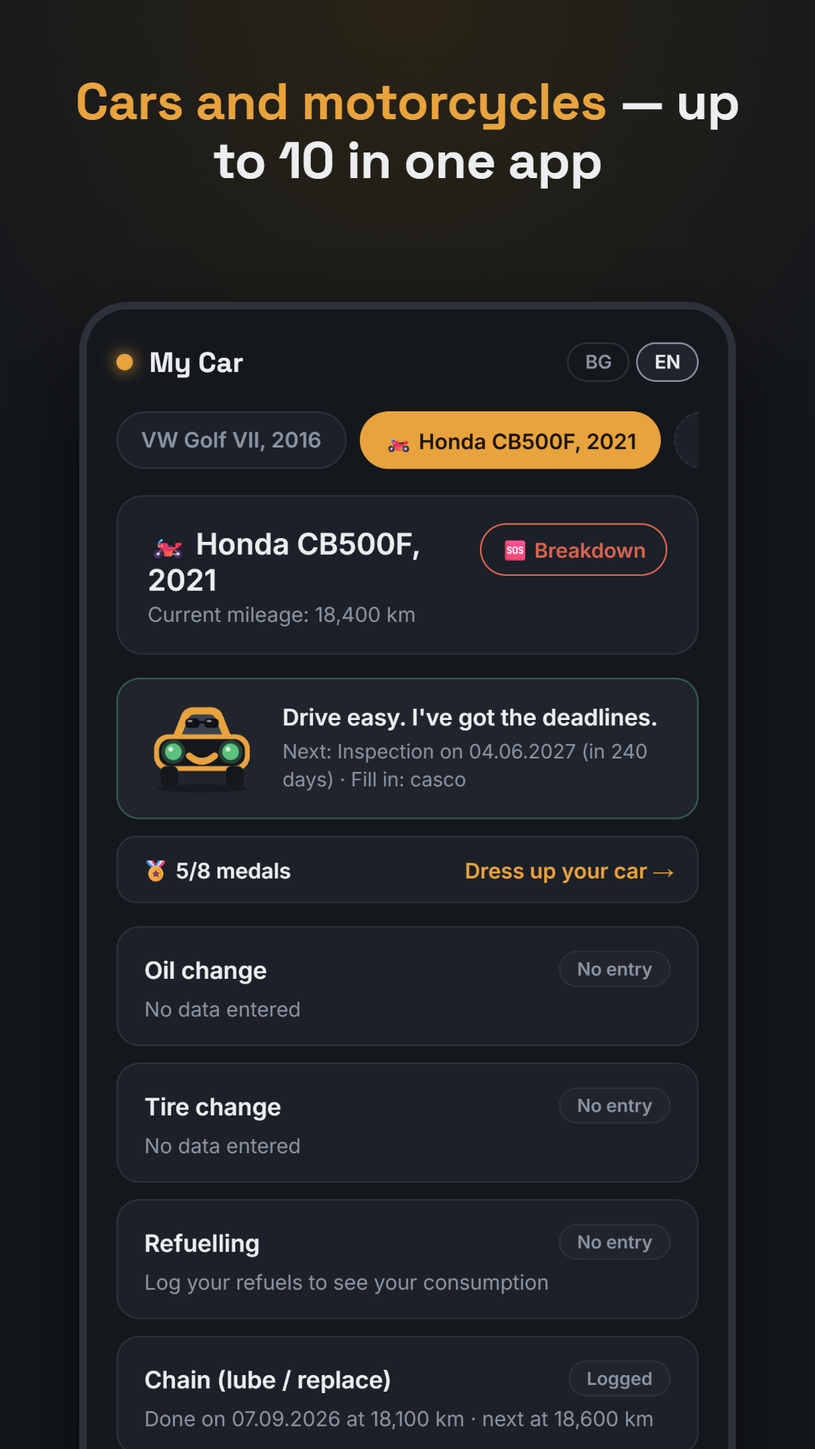
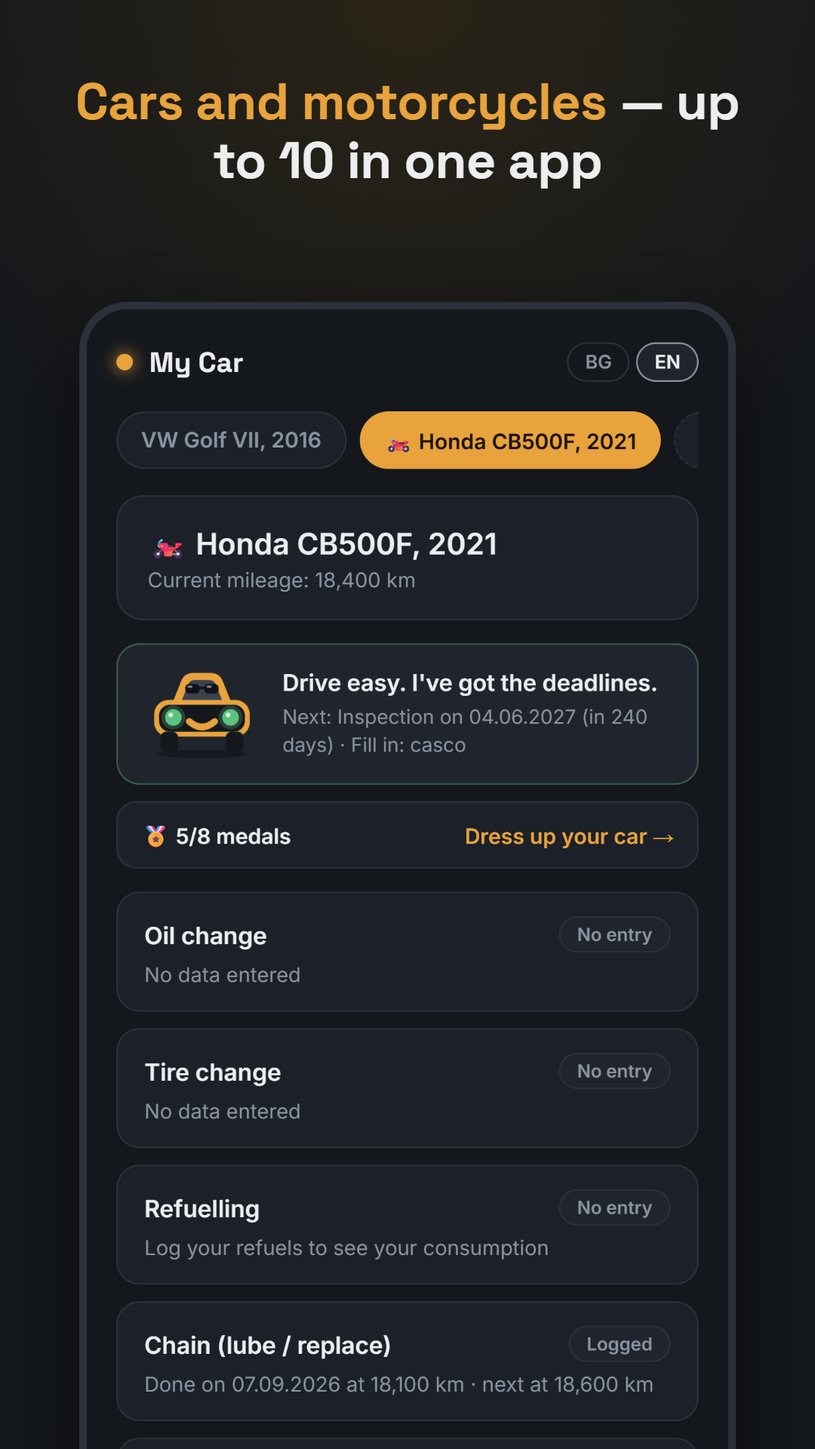
Hide the Breakdown button until there is a road-assistance partner; drop location permissions

diff --git a/terms.html b/terms.html
@@ -41,7 +41,6 @@ a{color:var(--amber);}
 <li>Пази сроковете на гражданска отговорност, винетка, технически преглед, каско, смяна на масло и друго обслужване и ти показва кога наближават.</li>
 <li>Води дневник на зарежданията и разходите.</li>
 <li>Показва оферти и бутони към партньори (застрахователни брокери, магазини, сервизи).</li>
-<li>Бутон „Авария“ с телефони за пътна помощ и спешни случаи и показване на местоположението ти.</li>
 </ul>
 <p>Данните, които въвеждаш, се пазят на твоето устройство. Подробности — в <a href="privacy.html">Политиката за поверителност</a>.</p>
 
@@ -52,7 +51,6 @@ a{color:var(--amber);}
 <p>Ние <b>не сме застраховател, застрахователен брокер или агент</b> и не продаваме застраховки, винетки, стоки или услуги. Бутоните към партньори отварят техния сайт; договорът се сключва директно между теб и партньора, по неговите условия и цени. Можем да получим възнаграждение от партньора, когато купиш чрез нашия линк — това не увеличава цената за теб. Не отговаряме за продуктите, услугите и сайтовете на партньорите.</p>
 
 <h2>5. Спешни случаи</h2>
-<p>Бутонът „Авария“ само улеснява обаждането и показва местоположението ти. Той не изпраща сигнал сам и не замества обаждането на 112. Точността на местоположението зависи от телефона ти.</p>
 
 <h2>6. Безплатна версия, пробен период и премиум</h2>
 <ul>
@@ -99,7 +97,6 @@ a{color:var(--amber);}
 <li>Keeps the expiry dates of third-party liability insurance, vignette, roadworthiness test, casco, oil change and other servicing, and shows you when they are coming up.</li>
 <li>Keeps a log of refuels and costs.</li>
 <li>Shows offers and buttons to partners (insurance brokers, shops, garages).</li>
-<li>A “Breakdown” button with road-assistance and emergency numbers and a way to show your location.</li>
 </ul>
 <p>The data you enter is stored on your device. Details are in the <a href="privacy.html">Privacy Policy</a>.</p>
 
@@ -110,7 +107,6 @@ a{color:var(--amber);}
 <p>We are <b>not an insurer, insurance broker or agent</b> and do not sell insurance, vignettes, goods or services. Partner buttons open the partner’s website; any contract is made directly between you and the partner, on its terms and prices. We may receive a fee from the partner when you buy through our link — this does not increase your price. We are not responsible for partners’ products, services or websites.</p>
 
 <h2>5. Emergencies</h2>
-<p>The “Breakdown” button only makes calling easier and shows your location. It does not send an alert by itself and does not replace calling 112. Location accuracy depends on your phone.</p>
 
 <h2>6. Free version, trial and premium</h2>
 <ul>

diff --git a/privacy.html b/privacy.html
@@ -51,7 +51,7 @@ a{color:var(--amber);}
 <p>Както при всеки сайт, доставчиците на хостинга (GitHub Pages и Supabase) могат да записват технически данни като IP адрес и вид на браузъра в служебни логове за сигурност, за кратък срок.</p>
 
 <h2>4. Местоположение</h2>
-<p>Бутонът „Авария“ може да поиска местоположението ти, <b>само ако го натиснеш</b> и разрешиш достъпа. Координатите се показват само на твоя екран, за да ги кажеш или изпратиш на пътната помощ. Ние не ги получаваме и не ги пазим. Ако избереш „Прати с SMS“ или „Карта“, те се предават на приложението, което сам си избрал.</p>
+<p>Приложението не иска и не ползва местоположението ти.</p>
 
 <h2>5. Партньори и външни сайтове</h2>
 <p>Бутоните към застрахователни брокери, магазини и сервизи отварят техния сайт. „Моят автомобил“ не продава застраховки или стоки — само те препраща. Каквото въведеш на сайта на партньора, се обработва от него по неговата политика за поверителност. Плащането на данъци (бутоните към ePay.bg и pay.egov.bg, ако са включени) също става на техните сайтове.</p>
@@ -100,7 +100,7 @@ a{color:var(--amber);}
 <p>As with any website, our hosting providers (GitHub Pages and Supabase) may record technical data such as IP address and browser type in security logs for a short time.</p>
 
 <h2>4. Location</h2>
-<p>The “Breakdown” button may ask for your location <b>only when you tap it</b> and allow access. The coordinates are shown only on your screen so you can tell or send them to road assistance. We do not receive or store them. If you choose “Send by SMS” or “Map”, they are passed to the app you chose.</p>
+<p>The app does not ask for or use your location.</p>
 
 <h2>5. Partners and external websites</h2>
 <p>Buttons to insurance brokers, shops and garages open their websites. “My Car” does not sell insurance or goods — it only refers you. Anything you enter on a partner’s website is processed by that partner under its own privacy policy. Tax payments (buttons to ePay.bg and pay.egov.bg, if enabled) also happen on their websites.</p>

diff --git a/scripts/store-shots.js b/scripts/store-shots.js
@@ -53,7 +53,7 @@ const T = {
       'Всички срокове на колата — на едно място',
       'Напомня 7 дни и 1 ден преди изтичане',
       'Разход на гориво и сметка за месеца',
-      'Авария? Помощ с едно натискане',
+      'Винетката — проверка по номера на колата',
       'Колата-талисман: медали и облекла',
       'Коли и мотори — до 10 в едно приложение'
     ],
@@ -67,7 +67,7 @@ const T = {
       'All your car’s deadlines in one place',
       'Reminders 7 days and 1 day before expiry',
       'Fuel consumption and monthly spend',
-      'Breakdown? Help in one tap',
+      'Vignette — checked by your plate number',
       'Mascot car: medals and outfits',
       'Cars and motorcycles — up to 10 in one app'
     ],
@@ -143,7 +143,8 @@ const accent = s => s.replace(/^([^—:?]+)([—:?])/, '<b>$1</b>$2');
       { civilDays: 120 },
       { civilDays: 7, action: async p => { await p.addStyleTag({ content: '.item[data-id=oil],.item[data-id=tires],.item[data-id=fuel],#medalBar{display:none!important}' }); }, notif: true },
       { civilDays: 120, action: async p => { await p.click('.item[data-id="fuel"]'); } },
-      { civilDays: 120, action: async p => { await p.click('#sosBtn'); } },
+      // Бутонът „Авария“ е скрит (07.10.2026) — на негово място е проверката на винетката по номер
+      { civilDays: 120, action: async p => { await p.click('.item[data-id="vignette"]'); await p.type('#plateInp', 'CA1234AB'); } },
       { civilDays: 120, action: async p => { await p.click('#medalBar'); } },
       { civilDays: 120, active: 'car2' }
     ];

diff --git a/index.html b/index.html
@@ -269,8 +269,10 @@ const VEHICLE_TYPES = {car:{label:tr('Кола','Car'), icon:'🚗'}, moto:{labe
 function vehicleType(car){ return car && car.type === 'moto' ? 'moto' : 'car'; }
 // Данък МПС е готов, но изключен по решение на Петьо (03.10.2026). За да се появи картата и медалът: TAX_ENABLED = true.
 const TAX_ENABLED = false;
-// Бутонът „Авария“ се скрива с SOS_ENABLED = false (пробвано на 04.10.2026).
-const SOS_ENABLED = true;
+// Бутонът „Авария“ е скрит по решение на Петьо (07.10.2026) — връща се само ако намерим партньор за пътна помощ.
+// За да се появи пак: SOS_ENABLED = true + разрешенията за местоположение в AndroidManifest.xml + текстовете
+// в privacy.html / terms.html / store/google-play (има ги в git историята преди тази дата).
+const SOS_ENABLED = false;
 function defsFor(car){ const t = vehicleType(car); return defs.filter(d=>(!d.only || d.only===t) && (d.id !== 'tax' || TAX_ENABLED)); }
 // Сезонна бележка за мотора: пролетта — проверка преди сезона, зимата — акумулаторът
 function motoSeasonTip(){

diff --git a/CLAUDE.md b/CLAUDE.md
@@ -50,7 +50,7 @@
 - **Езици BG / EN** (29.09.2026): превключвател горе вдясно (`renderLangSwitch`), изборът е в `car-tracker-lang-v1`, по подразбиране BG. Всеки видим текст е `tr('български', 'English')`; списъците (`MASCOT_LINES`, `TAP_LINES`, `SHORT_NAMES`) имат отделен EN вариант. Смяната на езика презарежда страницата. **Нов текст винаги с `tr()`.** RO/IT — само при влизане в тези пазари (различни документи).
 - **Медали и облекла** (30.09.2026, смесен модел — решение на Петьо): 8 медала (`MEDALS`), пазят се в `car-tracker-medals-v1`; подновяванията — в `car-tracker-renewals-v1` (записват се само при потвърдено плащане: `paidYesBtn` → 'confirm', `applyRenewal` → 'partner'; ръчно въведена дата НЕ дава медал). Облекла (`SKIN_ACCESSORIES`) и цветове (`SKIN_COLORS`): с `medal` се отключват с медал, с `premium` — с премиум/пробен период. `effectiveSkin()` връща към основното, ако нещо вече е заключено. Аксесоарите са SVG в `ACCESSORY_SVG` (viewBox на колата). Лентата „🏅 N/8 медала · Облечи колата →“ е под лентата със статуса.
 - **Форми (скинове)** (07.10.2026): `SKIN_SHAPES` (без флаг = безплатна, `premium`, `paid`), рисунките са в `shapeParts(id, body)` — сменя се само кабината и детайлите, лицето е едно; `accDy` мести шапките според покрива. `carSvgInner` рисува колата (и малките картинки — `shapeThumb`). Купените се пазят в `car-tracker-owned-skins-v1` (`{coupe:дата, pack:дата}`), `skinUnlocked` ги проверява. Магазинът е `openSkinShop`: еднократни продукти (non-consumable) в Google Play/App Store с идентификатори **`skin_<id>`** и **`skin_pack`**, през RevenueCat (`getProducts` тип `NON_SUBSCRIPTION` → `purchaseStoreProduct`); `applyOwnedSkins` чете `allPurchasedProductIdentifiers` при всяко `applyCustomerInfo` (и при „Възстанови покупките“). Без ключ в `RC_KEYS` и в уеб версията бутонът казва „скоро“ и **не отключва нищо**. Покупката през RevenueCat още не е тествана на живо (няма акаунти). Нова форма = ред в `SKIN_SHAPES` + рисунка в `shapeParts` + продукт в магазина.
-- **Бутон „Авария“** (30.09.2026): в картата на колата. Само свързваме: обаждане на 146 (пътна помощ СБА), местоположение (карта / SMS / копирай), 112 при пострадали. Не сме пътна помощ — текстът го казва. СБА още не е партньор (имейл пратен 30.09).
+- **Бутон „Авария“** — **СКРИТ** с `SOS_ENABLED = false` (решение на Петьо 07.10.2026: връща се само ако намерим партньор за пътна помощ); махнати са и разрешенията за местоположение в `AndroidManifest.xml` и текстовете за него в privacy/terms/Google Play. Кодът е вътре (30.09.2026): в картата на колата. Само свързваме: обаждане на 146 (пътна помощ СБА), местоположение (карта / SMS / копирай), 112 при пострадали. Не сме пътна помощ — текстът го казва. СБА още не е партньор (имейл пратен 30.09).
 - **Магазини за части (афилиейт, 30.09.2026):** `PARTS_URLS` в `index.html` (oil, tires, chain, charger) — линковете с нашия код се попълват след регистрация в AutoTim / Интимпекс / eMAG (Profitshare); докато са `null`, бутонът показва „Скоро“. `partsOffersFor` решава кога: масло — винаги, гуми — само март–април и октомври–ноември, верига — при мотор, зарядно — мотор през зимата. Бутоните са **за всички** (решение на Петьо 30.09.2026 — ще има много премиум потребители от промо кодове): безплатните виждат „🛒 …“, премиум — златист „⭐ Премиум оферта: …“ и отстъпка с код, ако има (`PARTS_PREMIUM_DISCOUNTS`) — като привилегия, не реклама (`partsHtml`). Вътре в картата (`openSheet`) има и тих линк „🛒 … — партньорски магазин“. Под бутоните: „Партньорска връзка. PARKBOOK може да получи комисиона.“ (задължително).
 - **Данък МПС** (30.09.2026, премиум, коли и мотори) — **ИЗКЛЮЧЕН** с `TAX_ENABLED = false` в `index.html` (решение на Петьо 03.10.2026: „засега не го добавяме“); кодът е вътре и се включва с `true`: mode `tax`, поле `status` ('' / 'first' / 'full') + `year` (+ `paidAt` при 'full'). Сроковете са по закон (ЗМДТ чл. 60): целият до 30.04 с 5% отстъпка, или вноски до 30.06 и 31.10 — `taxState`. **Докато човекът не е отбелязал нищо за годината, картата никога не е червена** — само напомня 15 дни преди срок. От нова година започва отначало. Бутон „Плати данъка →“ (на картата и в лентата) → `openTaxPay`: ePay.bg (страницата за данъци), pay.egov.bg, EasyPay на каса. ЕГН се въвежда при тях, никога при нас. Медал 🧾 „Данъци навреме“ — целият данък до 30.04.
 - **Партньорска система** (03.10.2026): партньорите не са в кода, а в базата — `backend/partners.sql`: `partners` (кратко име, име, SHA-256 на ключа), `partner_links` (партньор + продукт → техният линк, дял в € / % / € на заявка, `auto_return`, само един активен на продукт), `partner_clicks` (всяко препращане, по `cid`), `partner_reports` (ръчен месечен отчет); `renew_postbacks` има `kind` (lead/sale), `amount_eur`, `commission_eur` (делът към момента). Продукти: civil, vignette, casco, oil, tires, chain, charger, inspection, glass. Приложението взима активните партньори с `get_renew_partners()` (`loadPartners` → `SERVER_PARTNERS`, пази се в `car-tracker-partners-v1`) и отваря сайта им през Edge Function `go` (`goUrl`: брои натискането, добавя `cid` към адреса им, 302). Партньорът съобщава през `partner-postback` (ключ → `partners.key_hash`; `type=lead|sale`, `amount`; при civil/vignette/casco и датите). Страницата с паролата (`promo-generator.html`, действия `partners` / `partner_save` / `partner_key` / `report_add` в `admin-generate-code`) добавя партньор, прави ключ + готова инструкция за него и показва отчета по месеци (`partner_report()`): пратени → заявки → продажби → наш дял. `postback_partners` вече не се ползва.

diff --git a/store/google-play/listing.md b/store/google-play/listing.md
@@ -38,8 +38,8 @@
 ⛽ РАЗХОД НА ГОРИВО
 Записвай зарежданията и виж средния си разход (л/100 км) и колко си дал за гориво този месец.
 
-🆘 БУТОН „АВАРИЯ“
-Пътна помощ с едно натискане и точното ти местоположение — за да го кажеш или изпратиш по SMS. При пострадали — 112.
+🔎 ВИНЕТКАТА СЕ ПРОВЕРЯВА САМА
+Въвеждаш регистрационния номер и приложението взима датите на винетката от официалната система на БГ ТОЛ. После проверява само, веднъж на ден.
 
 🏍 КОЛИ И МОТОРИ
 До 10 превозни средства в едно приложение — за цялото семейство или малка фирма.
@@ -51,7 +51,7 @@
 Всичко, което въвеждаш, стои само на твоя телефон. Нямаш акаунт и не събираме лични данни.
 
 💳 БЕЗПЛАТНО И ПРЕМИУМ
-Маслото, гумите, зарежданията и бутонът „Авария“ са безплатни завинаги. Документите (гражданска, винетка, преглед, каско), напомнянията и повече коли са в Премиум — първият месец е безплатен, после 0,99 €/месец или 9,99 €/година. Абонаментът се управлява и спира по всяко време от Google Play. Допълнителните форми на колата се купуват еднократно (по 1,19 € или всички за 5,99 €) и остават твои завинаги.
+Маслото, гумите и зарежданията са безплатни завинаги. Документите (гражданска, винетка, преглед, каско), напомнянията и повече коли са в Премиум — първият месец е безплатен, после 0,99 €/месец или 9,99 €/година. Абонаментът се управлява и спира по всяко време от Google Play. Допълнителните форми на колата се купуват еднократно (по 1,19 € или всички за 5,99 €) и остават твои завинаги.
 
 Приложението е на български и английски.
 
@@ -94,8 +94,8 @@ A phone notification 7 days and 1 day before expiry — even offline. The mascot
 ⛽ FUEL CONSUMPTION
 Log your refuels and see your average consumption (L/100 km) and how much you spent on fuel this month.
 
-🆘 BREAKDOWN BUTTON
-Road assistance in one tap, plus your exact location to tell them or send by SMS. Anyone injured — 112.
+🔎 THE VIGNETTE CHECKS ITSELF
+Enter the registration number and the app takes the vignette dates from the official BG Toll system. Then it re-checks on its own once a day.
 
 🏍 CARS AND MOTORCYCLES
 Up to 10 vehicles in one app — for the whole family or a small business.
@@ -107,7 +107,7 @@ The smiling car is happy when everything is in order and grumbles when a deadlin
 Everything you enter stays on your phone only. There is no account and we do not collect personal data.
 
 💳 FREE AND PREMIUM
-Oil, tyres, refuels and the Breakdown button are free forever. Documents (insurance, vignette, inspection, casco), reminders and more vehicles are Premium — the first month is free, then €0.99/month or €9.99/year. Manage or cancel any time in Google Play. Extra car shapes are one-time purchases (€1.19 each or all for €5.99) and stay yours forever.
+Oil, tyres and refuels are free forever. Documents (insurance, vignette, inspection, casco), reminders and more vehicles are Premium — the first month is free, then €0.99/month or €9.99/year. Manage or cancel any time in Google Play. Extra car shapes are one-time purchases (€1.19 each or all for €5.99) and stay yours forever.
 
 Available in Bulgarian and English.
 

diff --git a/store/google-play/forms.md b/store/google-play/forms.md
@@ -64,7 +64,7 @@ No account or login. Premium features (documents, reminders) can be unlocked wit
 - Purposes: **App functionality** (проверка дали абонаментът е активен)
 
 ### Какво НЕ декларираме (и защо)
-- **Location** — местоположението при „Авария“ се показва само на екрана; не се праща към нас. По правилата на Google данни, които остават само на устройството, не са „събрани“.
+- **Location** — приложението не иска местоположение (бутонът „Авария“ е скрит от 07.10.2026 и разрешенията са махнати).
 - **Колите, датите, километрите, разходите** — пазят се само на телефона; не стигат до нас.
 - **Регистрационният номер** (проверка на винетката, от 07.10.2026) — пази се само на телефона и отива направо от него към официалната проверка на БГ ТОЛ, само ако човекът сам го въведе; до нас не стига. ⚠ Преди да подадеш формуляра, провери дали Google не го брои за „събрани“ данни (предаване към трета страна) — ако има съмнение, питай юриста.
 - **Име, имейл, телефон, ЕГН** — не ги искаме.
@@ -78,7 +78,8 @@ No account or login. Premium features (documents, reminders) can be unlocked wit
 | INTERNET, ACCESS_NETWORK_STATE | промо кодове, партньори, абонамент |
 | POST_NOTIFICATIONS | напомнянията 7 дни и 1 ден преди изтичане |
 | RECEIVE_BOOT_COMPLETED, WAKE_LOCK | напомнянията да останат след рестарт на телефона |
-| ACCESS_COARSE_LOCATION, ACCESS_FINE_LOCATION | само бутонът „Авария“, само докато приложението е отворено |
+
+
 | com.android.vending.BILLING | абонаментът през Google Play |
 
 Точните аларми (SCHEDULE_EXACT_ALARM) са **махнати** нарочно — не са ни нужни и Google ги проверява строго.

diff --git a/store/google-play/README.md b/store/google-play/README.md
@@ -13,4 +13,4 @@
 
 **Снимките** се правят автоматично от приложението с примерни данни (Golf + Honda). Ако променим приложението — Claude ги прави наново.
 
-**Ред на снимките:** 1 — всички срокове · 2 — напомняне · 3 — гориво · 4 — авария · 5 — медали и облекла · 6 — коли и мотори.
+**Ред на снимките:** 1 — всички срокове · 2 — напомняне · 3 — гориво · 4 — проверка на винетката по номер · 5 — медали и облекла · 6 — коли и мотори.
